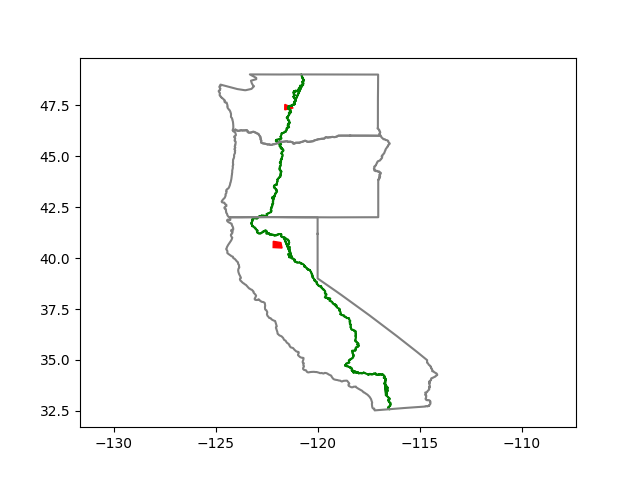
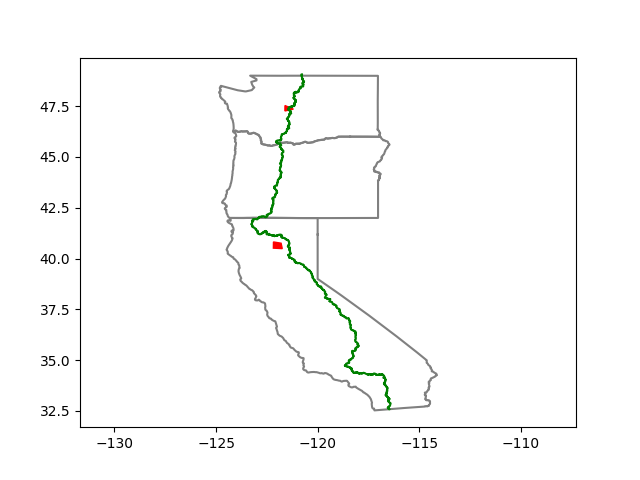
bug fixes in create_sms

diff --git a/firetracker.py b/firetracker.py
@@ -1,14 +1,12 @@
 import requests
-import threading
+import traceback
 import matplotlib.pyplot as plt
-from typing import *
-from shapely.geometry import LineString, Polygon, Point, MultiPolygon
-from shapely.ops import linemerge
 import geopandas as gpd
 import matplotlib.pyplot as plt
 import gpxpy
-from geopy import distance
-from sklearn.neighbors import NearestNeighbors
+from typing import *
+from shapely.geometry import LineString, Polygon, Point, MultiPolygon
+from shapely.ops import linemerge
 from math import radians, cos, sin, asin, sqrt
             
 class FireTracker():
@@ -17,22 +15,27 @@ class FireTracker():
         self.trail = trail
         self.trail_list = {
             'CT': {
+                'name': 'Colorado Trail',
                 'states': ['Colorado'],
                 'data': 'gpx_files/Colorado_Trail.gpx'
             },
             'PCT': {
+                'name': 'Pacific Crest Trail',
                 'states': ['California', 'Oregon', 'Washington'],
                 'data': 'gpx_files/Pacific_Crest_Trail.gpx'
             },
             'CDT': {
+                'name': 'Continental Divide Trail',
                 'states': ['New Mexico', 'Colorado', 'Wyoming', 'Idaho', 'Montana'],
                 'data': 'gpx_files/Continental_Divide_Trail.gpx'
             },
             'PNT': {
+                'name': 'Pacific Northwest Trail',
                 'states': ['Montana', 'Idaho', 'Washington'],
                 'data': 'gpx_files/Pacific_Northwest_Trail.gpx'
             },
             'AZT': {
+                'name': 'Arizona Trail',
                 'states': ['Arizona'],
                 'data': 'gpx_files/Arizona_Trail.gpx'
             }
@@ -46,16 +49,15 @@ class FireTracker():
         self.closest_points = self.get_closest_points(self.trail_linestring, self.state_fires)
     
     def plot(self) -> None:
+        for border in self.state_border_polygons:
+            x, y = border.exterior.xy
+            plt.plot(x, y, color='grey')
         y, x = self.trail_linestring.xy
         plt.plot(x, y, color='green')
         for fire in self.state_fires:
             y, x = fire['shape'].exterior.xy
             plt.fill(x, y, color='red')
-        for border in self.state_border_polygons:
-            x, y = border.exterior.xy
-            plt.plot(x, y, color='grey')
         plt.axis('equal')
-        plt.show()
         plt.savefig(f'{self.trail}_fires.png')
 
     def call_fire_api(self) -> List[object]:
@@ -119,24 +121,19 @@ class FireTracker():
                 for point in segment.points:
                     coords.insert(0, (point.latitude, point.longitude))
         # coords = self.remove_distant_points(coords)
-        if self.trail in ['PCT', 'AZT']: coords.reverse()
+        if self.trail in ['AZT', 'PNT', 'PCT']: coords.reverse()
         return LineString(coords)
 
-    # def remove_distant_points(self, coords: List[List[float]]) -> List[List[float]]:
-    #     new_coords = []
-    #     prev_lat, prev_lon = None, None
-    #     for lat, lon in coords:
-    #         if prev_lat is not None and prev_lon is not None:
-    #             dist = self.getdistance(prev_lat, prev_lon, lat, lon)
-    #             while dist > 1:
-    #                 # If the distance between consecutive points is greater than 1,
-    #                 # we need to remove the previous point and re-calculate the distance
-    #                 coords.pop(coords.index([prev_lat, prev_lon]))
-    #                 prev_lat, prev_lon = coords[-1]
-    #                 dist = self.getdistance(prev_lat, prev_lon, lat, lon)
-    #         new_coords.append([lat, lon])
-    #         prev_lat, prev_lon = lat, lon
-    #     return new_coords
+    def remove_distant_points(self, coords: List[List[float]]) -> List[List[float]]:
+        filtered_coords = [coords[0]]
+        for i in range(1, len(coords)):
+            prev_coord = filtered_coords[-1]
+            curr_coord = coords[i]
+            dist = self.getdistance(prev_coord[0], prev_coord[1], curr_coord[0], curr_coord[1])
+            if dist > 10:
+                continue
+            filtered_coords.append(curr_coord)
+        return filtered_coords
 
 
     # Create mile markers for each point in CT in the format dictionary[coordinate pair] = mile marker
@@ -243,14 +240,14 @@ class FireTracker():
         for fire in self.state_fires:
             attributes = fire['attributes']
             text += f"{attributes['name']} Fire"
-            area = round(attributes['acres'])
-            containment = round(attributes['containment'])
+            area = attributes['acres']
+            containment = attributes['containment']
             if area or containment: text += ' - '
             if area:
-                text += str(area) + ' acres'
+                text += str(round(area)) + ' acres'
                 if containment: text += ', '
             if containment:
-                text += str(containment) + '% contained'
+                text += str(round(containment)) + '% contained'
             text += '\n'
         self.text += text
     
@@ -282,5 +279,6 @@ class FireTracker():
             self.text_add_closest_points()
             self.text_add_fires_crossing_trail()
             return True
-        except:
+        except Exception as e:
+            traceback.print_tb(e.__traceback__)
             return False

diff --git a/firetracker_test.py b/firetracker_test.py
@@ -1,7 +1,6 @@
 import unittest
 import copy
 from typing import *
-import sys
 from firetracker import FireTracker
 import matplotlib.pyplot as plt
 
@@ -16,7 +15,7 @@ class TestFireTracker(FireTracker):
 
 class FireUnitTesting(unittest.TestCase):
 
-    trail = 'PCT'
+    trail = 'CDT'
 
     test_fires_template = [
         {
@@ -47,7 +46,7 @@ class FireUnitTesting(unittest.TestCase):
             [[ -106.330612, 39.673335], [ -106.338165, 39.485990], [ -106.051834, 39.466909], [ -106.066940, 39.689188]]
         ],
         'PNT': [
-            [[-118.590821, 49.271898], [-118.594940, 49.036579], [-118.231018, 49.219901], [-118.232392, 49.027575]],
+            [[-120.264561, 48.098639], [-120.264561, 47.348513], [-118.880284, 47.329900], [-118.902256, 48.039908]],
             [[-114.477539, 49.038410], [-114.435321, 48.271664], [-113.113007, 48.349559], [-113.192346, 48.941153]]
         ],
         'AZT': [
@@ -57,6 +56,10 @@ class FireUnitTesting(unittest.TestCase):
         'PCT': [
             [[-122.173511, 40.819048], [-122.178234, 40.513852], [-121.740926, 40.490152], [-121.798541, 40.756833]],
             [[-121.607023, 47.532033], [-121.610801, 47.265432], [-121.193327, 47.356368]]
+        ],
+        'CDT': [
+            [[ -108.067945, 45.055377],[-108.130315, 44.006080],[-106.443914, 44.057421],[-106.471379, 45.051626]],
+            [[ -107.289151, 36.443293],[-106.684903, 37.168985],[-105.668668, 36.044569]]
         ]
     }
 
@@ -77,6 +80,7 @@ class FireUnitTesting(unittest.TestCase):
 
     def test_add_fires(self) -> None:
         tracker = TestFireTracker(self.trail,  self.fill_test_fires(self.test_fires[self.trail]))
+        tracker.plot()
         try:
             self.assertTrue(len(tracker.state_fires) == 2)
             print('.test_add_fires PASSED: test fires were added to state fires.')
